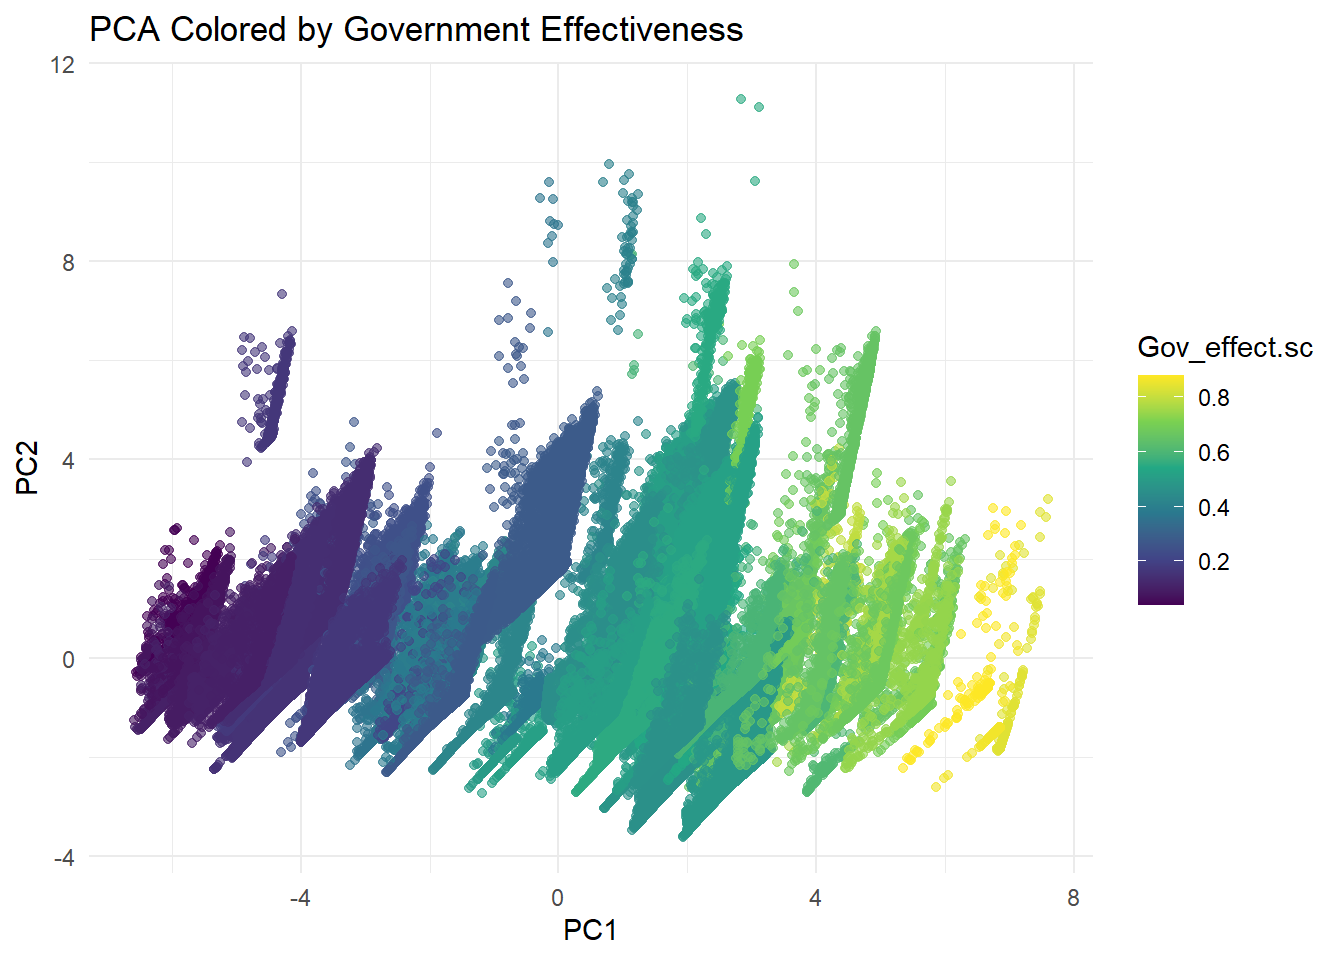
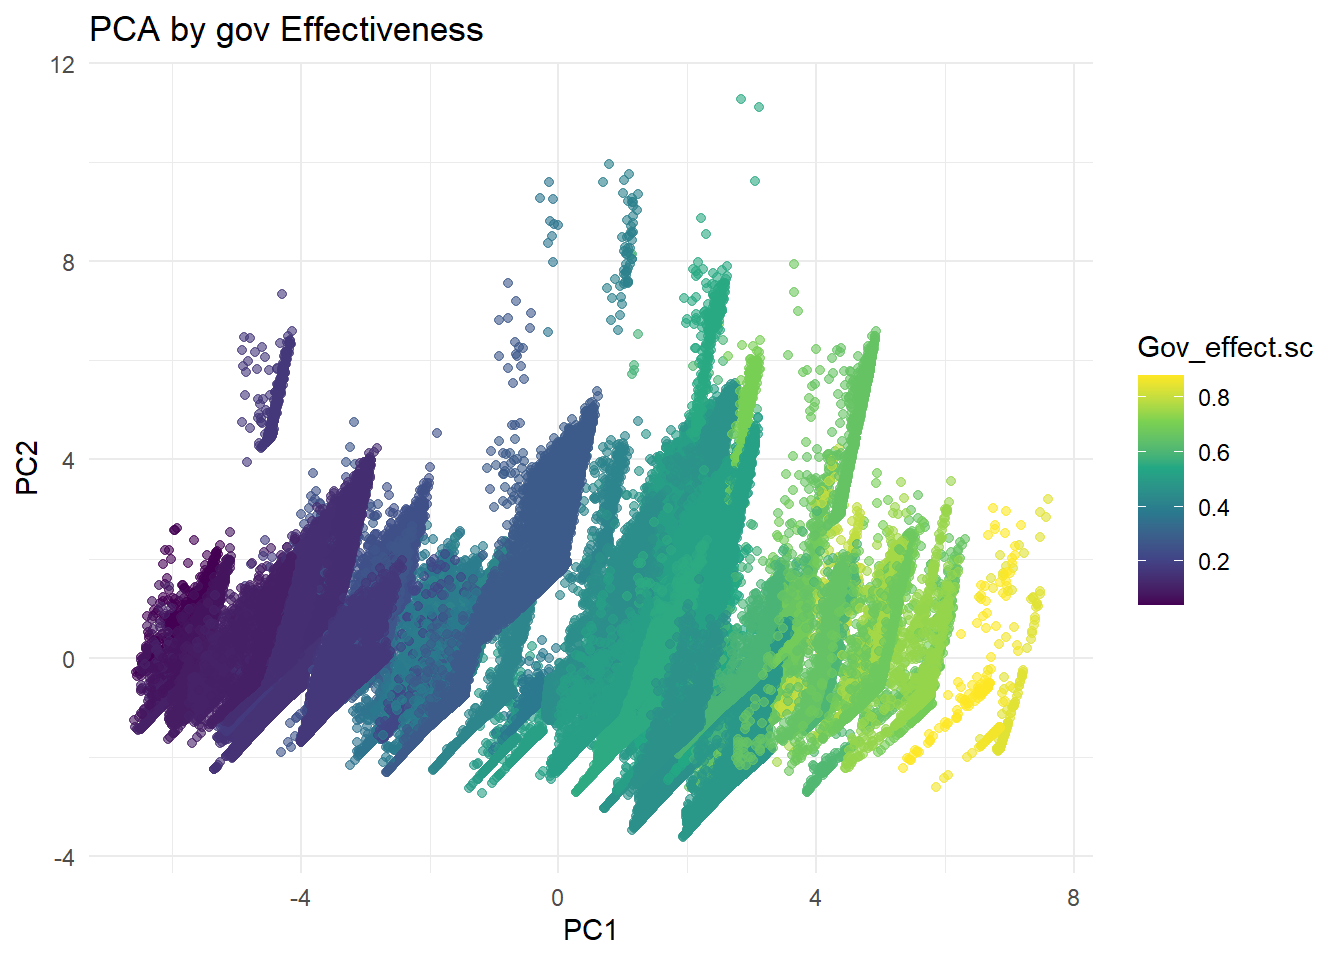
clean re-commit without RDS files

Changed region(s): [[0.125, 0.0, 0.5625, 0.0625]]

diff --git a/MeganDashboard/scripts/explore_vars.html b/MeganDashboard/scripts/explore_vars.html
@@ -147,7 +147,7 @@ Attaching package: 'scales'</code></pre>
 <span id="cb13-10"><a href="#cb13-10" aria-hidden="true" tabindex="-1"></a><span class="fu">ggplot</span>(df_pca, <span class="fu">aes</span>(<span class="at">x =</span> PC1, <span class="at">y =</span> PC2, <span class="at">color =</span> var_of_interest)) <span class="sc">+</span></span>
 <span id="cb13-11"><a href="#cb13-11" aria-hidden="true" tabindex="-1"></a>  <span class="fu">geom_point</span>(<span class="at">alpha =</span> <span class="fl">0.6</span>) <span class="sc">+</span></span>
 <span id="cb13-12"><a href="#cb13-12" aria-hidden="true" tabindex="-1"></a>  <span class="fu">scale_color_viridis_c</span>() <span class="sc">+</span></span>
-<span id="cb13-13"><a href="#cb13-13" aria-hidden="true" tabindex="-1"></a>  <span class="fu">labs</span>(<span class="at">title =</span> <span class="st">"PCA Colored by Government Effectiveness"</span>, <span class="at">color =</span> <span class="st">"Gov_effect.sc"</span>) <span class="sc">+</span></span>
+<span id="cb13-13"><a href="#cb13-13" aria-hidden="true" tabindex="-1"></a>  <span class="fu">labs</span>(<span class="at">title =</span> <span class="st">"PCA by gov Effectiveness"</span>, <span class="at">color =</span> <span class="st">"Gov_effect.sc"</span>) <span class="sc">+</span></span>
 <span id="cb13-14"><a href="#cb13-14" aria-hidden="true" tabindex="-1"></a>  <span class="fu">theme_minimal</span>()</span></code><button title="Copy to Clipboard" class="code-copy-button"><i class="bi"></i></button></pre></div>
 <div class="cell-output-display">
 <div>
@@ -158,39 +158,38 @@ Attaching package: 'scales'</code></pre>
 </div>
 </div>
 <div class="cell">
-<div class="sourceCode cell-code" id="cb14"><pre class="sourceCode r code-with-copy"><code class="sourceCode r"><span id="cb14-1"><a href="#cb14-1" aria-hidden="true" tabindex="-1"></a><span class="co"># Variable group definitions</span></span>
-<span id="cb14-2"><a href="#cb14-2" aria-hidden="true" tabindex="-1"></a>governance_vars <span class="ot">&lt;-</span> <span class="fu">c</span>(<span class="st">"Voice_account.sc"</span>, <span class="st">"Gov_effect.sc"</span>, <span class="st">"Reg_quality.sc"</span>, </span>
-<span id="cb14-3"><a href="#cb14-3" aria-hidden="true" tabindex="-1"></a>                     <span class="st">"Rule_law.sc"</span>, <span class="st">"control_corr.sc"</span>, <span class="st">"Political_stab.sc"</span>)</span>
-<span id="cb14-4"><a href="#cb14-4" aria-hidden="true" tabindex="-1"></a></span>
-<span id="cb14-5"><a href="#cb14-5" aria-hidden="true" tabindex="-1"></a>inequality_vars <span class="ot">&lt;-</span> <span class="fu">c</span>(<span class="st">"gender.ineq.sc"</span>, <span class="st">"income.ineq.sc"</span>, <span class="st">"le.ineq.log.sc"</span>, </span>
-<span id="cb14-6"><a href="#cb14-6" aria-hidden="true" tabindex="-1"></a>                     <span class="st">"ineq.score.rank"</span>, <span class="st">"hierachical.score.rank.ineq"</span>)</span>
-<span id="cb14-7"><a href="#cb14-7" aria-hidden="true" tabindex="-1"></a></span>
-<span id="cb14-8"><a href="#cb14-8" aria-hidden="true" tabindex="-1"></a>ecological_vars <span class="ot">&lt;-</span> <span class="fu">c</span>(<span class="st">"mean.count.grav.V2.log.sc"</span>, <span class="st">"vulnerab.score.rank"</span>, </span>
-<span id="cb14-9"><a href="#cb14-9" aria-hidden="true" tabindex="-1"></a>                     <span class="st">"Nutritional.dependence.sc"</span>, <span class="st">"Economic.dependence.sc"</span>)</span>
-<span id="cb14-10"><a href="#cb14-10" aria-hidden="true" tabindex="-1"></a></span>
-<span id="cb14-11"><a href="#cb14-11" aria-hidden="true" tabindex="-1"></a>deprivation_vars <span class="ot">&lt;-</span> <span class="fu">c</span>(<span class="st">"povmap.grdi.v1.sc"</span>, <span class="st">"income.ineq.change.sc"</span>, <span class="st">"le.ineq.change.sc"</span>)</span>
-<span id="cb14-12"><a href="#cb14-12" aria-hidden="true" tabindex="-1"></a></span>
-<span id="cb14-13"><a href="#cb14-13" aria-hidden="true" tabindex="-1"></a>exposure_vars <span class="ot">&lt;-</span> <span class="fu">c</span>(<span class="st">"perc.pop.world.coastal.merit.10m.log.sc"</span>)</span>
-<span id="cb14-14"><a href="#cb14-14" aria-hidden="true" tabindex="-1"></a></span>
-<span id="cb14-15"><a href="#cb14-15" aria-hidden="true" tabindex="-1"></a>df_clean <span class="ot">&lt;-</span> df <span class="sc">|&gt;</span></span>
-<span id="cb14-16"><a href="#cb14-16" aria-hidden="true" tabindex="-1"></a>  <span class="fu">st_drop_geometry</span>() <span class="sc">|&gt;</span></span>
-<span id="cb14-17"><a href="#cb14-17" aria-hidden="true" tabindex="-1"></a>  <span class="fu">select</span>(name_en, <span class="fu">all_of</span>(<span class="fu">c</span>(governance_vars, inequality_vars, ecological_vars, deprivation_vars, exposure_vars))) <span class="sc">|&gt;</span></span>
-<span id="cb14-18"><a href="#cb14-18" aria-hidden="true" tabindex="-1"></a>  <span class="fu">filter</span>(<span class="fu">if_all</span>(<span class="fu">everything</span>(), <span class="sc">~</span> <span class="sc">!</span><span class="fu">is.na</span>(.)))</span>
-<span id="cb14-19"><a href="#cb14-19" aria-hidden="true" tabindex="-1"></a></span>
-<span id="cb14-20"><a href="#cb14-20" aria-hidden="true" tabindex="-1"></a>df_scores <span class="ot">&lt;-</span> df_clean <span class="sc">|&gt;</span></span>
-<span id="cb14-21"><a href="#cb14-21" aria-hidden="true" tabindex="-1"></a>  <span class="fu">group_by</span>(name_en) <span class="sc">|&gt;</span></span>
-<span id="cb14-22"><a href="#cb14-22" aria-hidden="true" tabindex="-1"></a>  <span class="fu">summarise</span>(</span>
-<span id="cb14-23"><a href="#cb14-23" aria-hidden="true" tabindex="-1"></a>    <span class="at">governance_score =</span> <span class="fu">mean</span>(<span class="fu">c_across</span>(<span class="fu">all_of</span>(governance_vars)), <span class="at">na.rm =</span> <span class="cn">TRUE</span>),</span>
-<span id="cb14-24"><a href="#cb14-24" aria-hidden="true" tabindex="-1"></a>    <span class="at">inequality_score =</span> <span class="fu">mean</span>(<span class="fu">c_across</span>(<span class="fu">all_of</span>(inequality_vars)), <span class="at">na.rm =</span> <span class="cn">TRUE</span>),</span>
-<span id="cb14-25"><a href="#cb14-25" aria-hidden="true" tabindex="-1"></a>    <span class="at">ecological_score =</span> <span class="fu">mean</span>(<span class="fu">c_across</span>(<span class="fu">all_of</span>(ecological_vars)), <span class="at">na.rm =</span> <span class="cn">TRUE</span>),</span>
-<span id="cb14-26"><a href="#cb14-26" aria-hidden="true" tabindex="-1"></a>    <span class="at">deprivation_score =</span> <span class="fu">mean</span>(<span class="fu">c_across</span>(<span class="fu">all_of</span>(deprivation_vars)), <span class="at">na.rm =</span> <span class="cn">TRUE</span>),</span>
-<span id="cb14-27"><a href="#cb14-27" aria-hidden="true" tabindex="-1"></a>    <span class="at">exposure_score =</span> <span class="fu">mean</span>(<span class="fu">c_across</span>(<span class="fu">all_of</span>(exposure_vars)), <span class="at">na.rm =</span> <span class="cn">TRUE</span>)</span>
-<span id="cb14-28"><a href="#cb14-28" aria-hidden="true" tabindex="-1"></a>  ) <span class="sc">|&gt;</span></span>
-<span id="cb14-29"><a href="#cb14-29" aria-hidden="true" tabindex="-1"></a>  <span class="fu">ungroup</span>() <span class="sc">|&gt;</span></span>
-<span id="cb14-30"><a href="#cb14-30" aria-hidden="true" tabindex="-1"></a>  <span class="fu">mutate</span>(<span class="fu">across</span>(<span class="fu">where</span>(is.numeric), rescale)) <span class="sc">|&gt;</span></span>
-<span id="cb14-31"><a href="#cb14-31" aria-hidden="true" tabindex="-1"></a>  <span class="fu">mutate</span>(</span>
-<span id="cb14-32"><a href="#cb14-32" aria-hidden="true" tabindex="-1"></a>    <span class="at">risk_score =</span> (<span class="dv">1</span> <span class="sc">-</span> governance_score) <span class="sc">+</span> inequality_score <span class="sc">+</span> ecological_score <span class="sc">+</span> exposure_score</span>
-<span id="cb14-33"><a href="#cb14-33" aria-hidden="true" tabindex="-1"></a>  )</span></code><button title="Copy to Clipboard" class="code-copy-button"><i class="bi"></i></button></pre></div>
+<div class="sourceCode cell-code" id="cb14"><pre class="sourceCode r code-with-copy"><code class="sourceCode r"><span id="cb14-1"><a href="#cb14-1" aria-hidden="true" tabindex="-1"></a>governance_vars <span class="ot">&lt;-</span> <span class="fu">c</span>(<span class="st">"Voice_account.sc"</span>, <span class="st">"Gov_effect.sc"</span>, <span class="st">"Reg_quality.sc"</span>, </span>
+<span id="cb14-2"><a href="#cb14-2" aria-hidden="true" tabindex="-1"></a>                     <span class="st">"Rule_law.sc"</span>, <span class="st">"control_corr.sc"</span>, <span class="st">"Political_stab.sc"</span>)</span>
+<span id="cb14-3"><a href="#cb14-3" aria-hidden="true" tabindex="-1"></a></span>
+<span id="cb14-4"><a href="#cb14-4" aria-hidden="true" tabindex="-1"></a>inequality_vars <span class="ot">&lt;-</span> <span class="fu">c</span>(<span class="st">"gender.ineq.sc"</span>, <span class="st">"income.ineq.sc"</span>, <span class="st">"le.ineq.log.sc"</span>, </span>
+<span id="cb14-5"><a href="#cb14-5" aria-hidden="true" tabindex="-1"></a>                     <span class="st">"ineq.score.rank"</span>, <span class="st">"hierachical.score.rank.ineq"</span>)</span>
+<span id="cb14-6"><a href="#cb14-6" aria-hidden="true" tabindex="-1"></a></span>
+<span id="cb14-7"><a href="#cb14-7" aria-hidden="true" tabindex="-1"></a>ecological_vars <span class="ot">&lt;-</span> <span class="fu">c</span>(<span class="st">"mean.count.grav.V2.log.sc"</span>, <span class="st">"vulnerab.score.rank"</span>, </span>
+<span id="cb14-8"><a href="#cb14-8" aria-hidden="true" tabindex="-1"></a>                     <span class="st">"Nutritional.dependence.sc"</span>, <span class="st">"Economic.dependence.sc"</span>)</span>
+<span id="cb14-9"><a href="#cb14-9" aria-hidden="true" tabindex="-1"></a></span>
+<span id="cb14-10"><a href="#cb14-10" aria-hidden="true" tabindex="-1"></a>deprivation_vars <span class="ot">&lt;-</span> <span class="fu">c</span>(<span class="st">"povmap.grdi.v1.sc"</span>, <span class="st">"income.ineq.change.sc"</span>, <span class="st">"le.ineq.change.sc"</span>)</span>
+<span id="cb14-11"><a href="#cb14-11" aria-hidden="true" tabindex="-1"></a></span>
+<span id="cb14-12"><a href="#cb14-12" aria-hidden="true" tabindex="-1"></a>exposure_vars <span class="ot">&lt;-</span> <span class="fu">c</span>(<span class="st">"perc.pop.world.coastal.merit.10m.log.sc"</span>)</span>
+<span id="cb14-13"><a href="#cb14-13" aria-hidden="true" tabindex="-1"></a></span>
+<span id="cb14-14"><a href="#cb14-14" aria-hidden="true" tabindex="-1"></a>df_clean <span class="ot">&lt;-</span> df <span class="sc">|&gt;</span></span>
+<span id="cb14-15"><a href="#cb14-15" aria-hidden="true" tabindex="-1"></a>  <span class="fu">st_drop_geometry</span>() <span class="sc">|&gt;</span></span>
+<span id="cb14-16"><a href="#cb14-16" aria-hidden="true" tabindex="-1"></a>  <span class="fu">select</span>(name_en, <span class="fu">all_of</span>(<span class="fu">c</span>(governance_vars, inequality_vars, ecological_vars, deprivation_vars, exposure_vars))) <span class="sc">|&gt;</span></span>
+<span id="cb14-17"><a href="#cb14-17" aria-hidden="true" tabindex="-1"></a>  <span class="fu">filter</span>(<span class="fu">if_all</span>(<span class="fu">everything</span>(), <span class="sc">~</span> <span class="sc">!</span><span class="fu">is.na</span>(.)))</span>
+<span id="cb14-18"><a href="#cb14-18" aria-hidden="true" tabindex="-1"></a></span>
+<span id="cb14-19"><a href="#cb14-19" aria-hidden="true" tabindex="-1"></a>df_scores <span class="ot">&lt;-</span> df_clean <span class="sc">|&gt;</span></span>
+<span id="cb14-20"><a href="#cb14-20" aria-hidden="true" tabindex="-1"></a>  <span class="fu">group_by</span>(name_en) <span class="sc">|&gt;</span></span>
+<span id="cb14-21"><a href="#cb14-21" aria-hidden="true" tabindex="-1"></a>  <span class="fu">summarise</span>(</span>
+<span id="cb14-22"><a href="#cb14-22" aria-hidden="true" tabindex="-1"></a>    <span class="at">governance_score =</span> <span class="fu">mean</span>(<span class="fu">c_across</span>(<span class="fu">all_of</span>(governance_vars)), <span class="at">na.rm =</span> <span class="cn">TRUE</span>),</span>
+<span id="cb14-23"><a href="#cb14-23" aria-hidden="true" tabindex="-1"></a>    <span class="at">inequality_score =</span> <span class="fu">mean</span>(<span class="fu">c_across</span>(<span class="fu">all_of</span>(inequality_vars)), <span class="at">na.rm =</span> <span class="cn">TRUE</span>),</span>
+<span id="cb14-24"><a href="#cb14-24" aria-hidden="true" tabindex="-1"></a>    <span class="at">ecological_score =</span> <span class="fu">mean</span>(<span class="fu">c_across</span>(<span class="fu">all_of</span>(ecological_vars)), <span class="at">na.rm =</span> <span class="cn">TRUE</span>),</span>
+<span id="cb14-25"><a href="#cb14-25" aria-hidden="true" tabindex="-1"></a>    <span class="at">deprivation_score =</span> <span class="fu">mean</span>(<span class="fu">c_across</span>(<span class="fu">all_of</span>(deprivation_vars)), <span class="at">na.rm =</span> <span class="cn">TRUE</span>),</span>
+<span id="cb14-26"><a href="#cb14-26" aria-hidden="true" tabindex="-1"></a>    <span class="at">exposure_score =</span> <span class="fu">mean</span>(<span class="fu">c_across</span>(<span class="fu">all_of</span>(exposure_vars)), <span class="at">na.rm =</span> <span class="cn">TRUE</span>)</span>
+<span id="cb14-27"><a href="#cb14-27" aria-hidden="true" tabindex="-1"></a>  ) <span class="sc">|&gt;</span></span>
+<span id="cb14-28"><a href="#cb14-28" aria-hidden="true" tabindex="-1"></a>  <span class="fu">ungroup</span>() <span class="sc">|&gt;</span></span>
+<span id="cb14-29"><a href="#cb14-29" aria-hidden="true" tabindex="-1"></a>  <span class="fu">mutate</span>(<span class="fu">across</span>(<span class="fu">where</span>(is.numeric), rescale)) <span class="sc">|&gt;</span></span>
+<span id="cb14-30"><a href="#cb14-30" aria-hidden="true" tabindex="-1"></a>  <span class="fu">mutate</span>(</span>
+<span id="cb14-31"><a href="#cb14-31" aria-hidden="true" tabindex="-1"></a>    <span class="at">risk_score =</span> (<span class="dv">1</span> <span class="sc">-</span> governance_score) <span class="sc">+</span> inequality_score <span class="sc">+</span> ecological_score <span class="sc">+</span> exposure_score</span>
+<span id="cb14-32"><a href="#cb14-32" aria-hidden="true" tabindex="-1"></a>  )</span></code><button title="Copy to Clipboard" class="code-copy-button"><i class="bi"></i></button></pre></div>
 </div>
 <div class="cell">
 <div class="sourceCode cell-code" id="cb15"><pre class="sourceCode r code-with-copy"><code class="sourceCode r"><span id="cb15-1"><a href="#cb15-1" aria-hidden="true" tabindex="-1"></a>top_risk <span class="ot">&lt;-</span> df_scores <span class="sc">|&gt;</span> <span class="fu">arrange</span>(<span class="fu">desc</span>(risk_score)) <span class="sc">|&gt;</span> <span class="fu">slice_head</span>(<span class="at">n =</span> <span class="dv">10</span>)</span>
@@ -332,6 +331,89 @@ Bottom 5 exposure_score countries:
 3 India                          0.000462
 4 Chile                          0.00199 
 5 Turkey                         0.00203 </code></pre>
+</div>
+</div>
+<div class="cell">
+<div class="sourceCode cell-code" id="cb25"><pre class="sourceCode r code-with-copy"><code class="sourceCode r"><span id="cb25-1"><a href="#cb25-1" aria-hidden="true" tabindex="-1"></a><span class="co">#outliers</span></span>
+<span id="cb25-2"><a href="#cb25-2" aria-hidden="true" tabindex="-1"></a>df_scores <span class="sc">|&gt;</span></span>
+<span id="cb25-3"><a href="#cb25-3" aria-hidden="true" tabindex="-1"></a>  <span class="fu">filter</span>(governance_score <span class="sc">&gt;</span> <span class="fl">0.8</span>, risk_score <span class="sc">&gt;</span> <span class="fl">0.7</span>) </span></code><button title="Copy to Clipboard" class="code-copy-button"><i class="bi"></i></button></pre></div>
+<div class="cell-output cell-output-stdout">
+<pre><code># A tibble: 8 × 7
+  name_en   governance_score inequality_score ecological_score deprivation_score
+  &lt;fct&gt;                &lt;dbl&gt;            &lt;dbl&gt;            &lt;dbl&gt;             &lt;dbl&gt;
+1 Angola               0.806            0.991           0.122              0.693
+2 Cameroon             0.813            0.996           0.111              0.621
+3 Democrat…            0.982            0.951           0.0287             0.757
+4 Guinea               0.819            0.931           0.125              0.838
+5 Iran                 0.830            0.755           0.0975             0.468
+6 Pakistan             0.820            0.936           0.110              0.644
+7 Sudan                0.979            1               0.0581             0.761
+8 Yemen                1                0.897           0.129              0.325
+# ℹ 2 more variables: exposure_score &lt;dbl&gt;, risk_score &lt;dbl&gt;</code></pre>
+</div>
+<div class="sourceCode cell-code" id="cb27"><pre class="sourceCode r code-with-copy"><code class="sourceCode r"><span id="cb27-1"><a href="#cb27-1" aria-hidden="true" tabindex="-1"></a>df_scores <span class="sc">|&gt;</span></span>
+<span id="cb27-2"><a href="#cb27-2" aria-hidden="true" tabindex="-1"></a>  <span class="fu">filter</span>(inequality_score <span class="sc">&lt;</span> <span class="fl">0.1</span>, risk_score <span class="sc">&gt;</span> <span class="fl">0.7</span>)</span></code><button title="Copy to Clipboard" class="code-copy-button"><i class="bi"></i></button></pre></div>
+<div class="cell-output cell-output-stdout">
+<pre><code># A tibble: 9 × 7
+  name_en governance_score inequality_score ecological_score deprivation_score
+  &lt;fct&gt;              &lt;dbl&gt;            &lt;dbl&gt;            &lt;dbl&gt;             &lt;dbl&gt;
+1 Belgium          0.153            0.0517            0.0450             0.226
+2 Croatia          0.408            0.0869            0.110              0.539
+3 Cyprus           0.255            0.0799            0.145              0.318
+4 Denmark          0.0241           0.00971           0.112              0.330
+5 Estonia          0.186            0.0771            0.0544             0.650
+6 Finland          0.00233          0                 0.141              0.419
+7 Iceland          0.0909           0.0723            0.429              0.591
+8 Ireland          0.112            0.0845            0.103              0.636
+9 Sweden           0.0261           0.0117            0.101              0.243
+# ℹ 2 more variables: exposure_score &lt;dbl&gt;, risk_score &lt;dbl&gt;</code></pre>
+</div>
+<div class="sourceCode cell-code" id="cb29"><pre class="sourceCode r code-with-copy"><code class="sourceCode r"><span id="cb29-1"><a href="#cb29-1" aria-hidden="true" tabindex="-1"></a>df_scores <span class="sc">|&gt;</span></span>
+<span id="cb29-2"><a href="#cb29-2" aria-hidden="true" tabindex="-1"></a>  <span class="fu">filter</span>(ecological_score <span class="sc">&lt;</span> <span class="fl">0.025</span>, risk_score <span class="sc">&gt;</span> <span class="fl">0.7</span>) </span></code><button title="Copy to Clipboard" class="code-copy-button"><i class="bi"></i></button></pre></div>
+<div class="cell-output cell-output-stdout">
+<pre><code># A tibble: 7 × 7
+  name_en   governance_score inequality_score ecological_score deprivation_score
+  &lt;fct&gt;                &lt;dbl&gt;            &lt;dbl&gt;            &lt;dbl&gt;             &lt;dbl&gt;
+1 Bulgaria             0.479            0.233          0                   0.405
+2 Georgia              0.440            0.405          0.00991             0.834
+3 Guatemala            0.701            0.715          0.0200              0.790
+4 Jordan               0.552            0.661          0.00576             0.436
+5 Poland               0.304            0.162          0.0135              0.373
+6 Romania              0.465            0.291          0.0131              0.686
+7 Turkey               0.603            0.561          0.0219              0.801
+# ℹ 2 more variables: exposure_score &lt;dbl&gt;, risk_score &lt;dbl&gt;</code></pre>
+</div>
+<div class="sourceCode cell-code" id="cb31"><pre class="sourceCode r code-with-copy"><code class="sourceCode r"><span id="cb31-1"><a href="#cb31-1" aria-hidden="true" tabindex="-1"></a>df_scores <span class="sc">|&gt;</span></span>
+<span id="cb31-2"><a href="#cb31-2" aria-hidden="true" tabindex="-1"></a>  <span class="fu">filter</span>(deprivation_score <span class="sc">&lt;</span> <span class="fl">0.2</span>, risk_score <span class="sc">&gt;</span> <span class="fl">0.7</span>) </span></code><button title="Copy to Clipboard" class="code-copy-button"><i class="bi"></i></button></pre></div>
+<div class="cell-output cell-output-stdout">
+<pre><code># A tibble: 3 × 7
+  name_en   governance_score inequality_score ecological_score deprivation_score
+  &lt;fct&gt;                &lt;dbl&gt;            &lt;dbl&gt;            &lt;dbl&gt;             &lt;dbl&gt;
+1 Malta                0.217            0.259           0.314             0     
+2 Mauritius            0.293            0.603           0.337             0.0465
+3 United S…            0.176            0.333           0.0805            0.193 
+# ℹ 2 more variables: exposure_score &lt;dbl&gt;, risk_score &lt;dbl&gt;</code></pre>
+</div>
+<div class="sourceCode cell-code" id="cb33"><pre class="sourceCode r code-with-copy"><code class="sourceCode r"><span id="cb33-1"><a href="#cb33-1" aria-hidden="true" tabindex="-1"></a>df_scores <span class="sc">|&gt;</span></span>
+<span id="cb33-2"><a href="#cb33-2" aria-hidden="true" tabindex="-1"></a>  <span class="fu">filter</span>(exposure_score <span class="sc">&lt;</span> <span class="fl">0.005</span>, risk_score <span class="sc">&gt;</span> <span class="fl">0.7</span>) </span></code><button title="Copy to Clipboard" class="code-copy-button"><i class="bi"></i></button></pre></div>
+<div class="cell-output cell-output-stdout">
+<pre><code># A tibble: 13 × 7
+   name_en  governance_score inequality_score ecological_score deprivation_score
+   &lt;fct&gt;               &lt;dbl&gt;            &lt;dbl&gt;            &lt;dbl&gt;             &lt;dbl&gt;
+ 1 Chile               0.226            0.456           0.0874             0.446
+ 2 India               0.584            0.846           0.0448             0.636
+ 3 Indones…            0.598            0.650           0.308              0.587
+ 4 Italy               0.369            0.231           0.116              0.303
+ 5 Japan               0.145            0.258           0.239              0.396
+ 6 Madagas…            0.742            0.865           0.101              0.742
+ 7 Mexico              0.607            0.636           0.0804             0.691
+ 8 Mozambi…            0.700            0.993           0.127              0.727
+ 9 Philipp…            0.614            0.542           0.355              0.631
+10 Spain               0.279            0.175           0.160              0.364
+11 Turkey              0.603            0.561           0.0219             0.801
+12 United …            0.117            0.162           0.0817             0.412
+13 United …            0.176            0.333           0.0805             0.193
+# ℹ 2 more variables: exposure_score &lt;dbl&gt;, risk_score &lt;dbl&gt;</code></pre>
 </div>
 </div>
 
